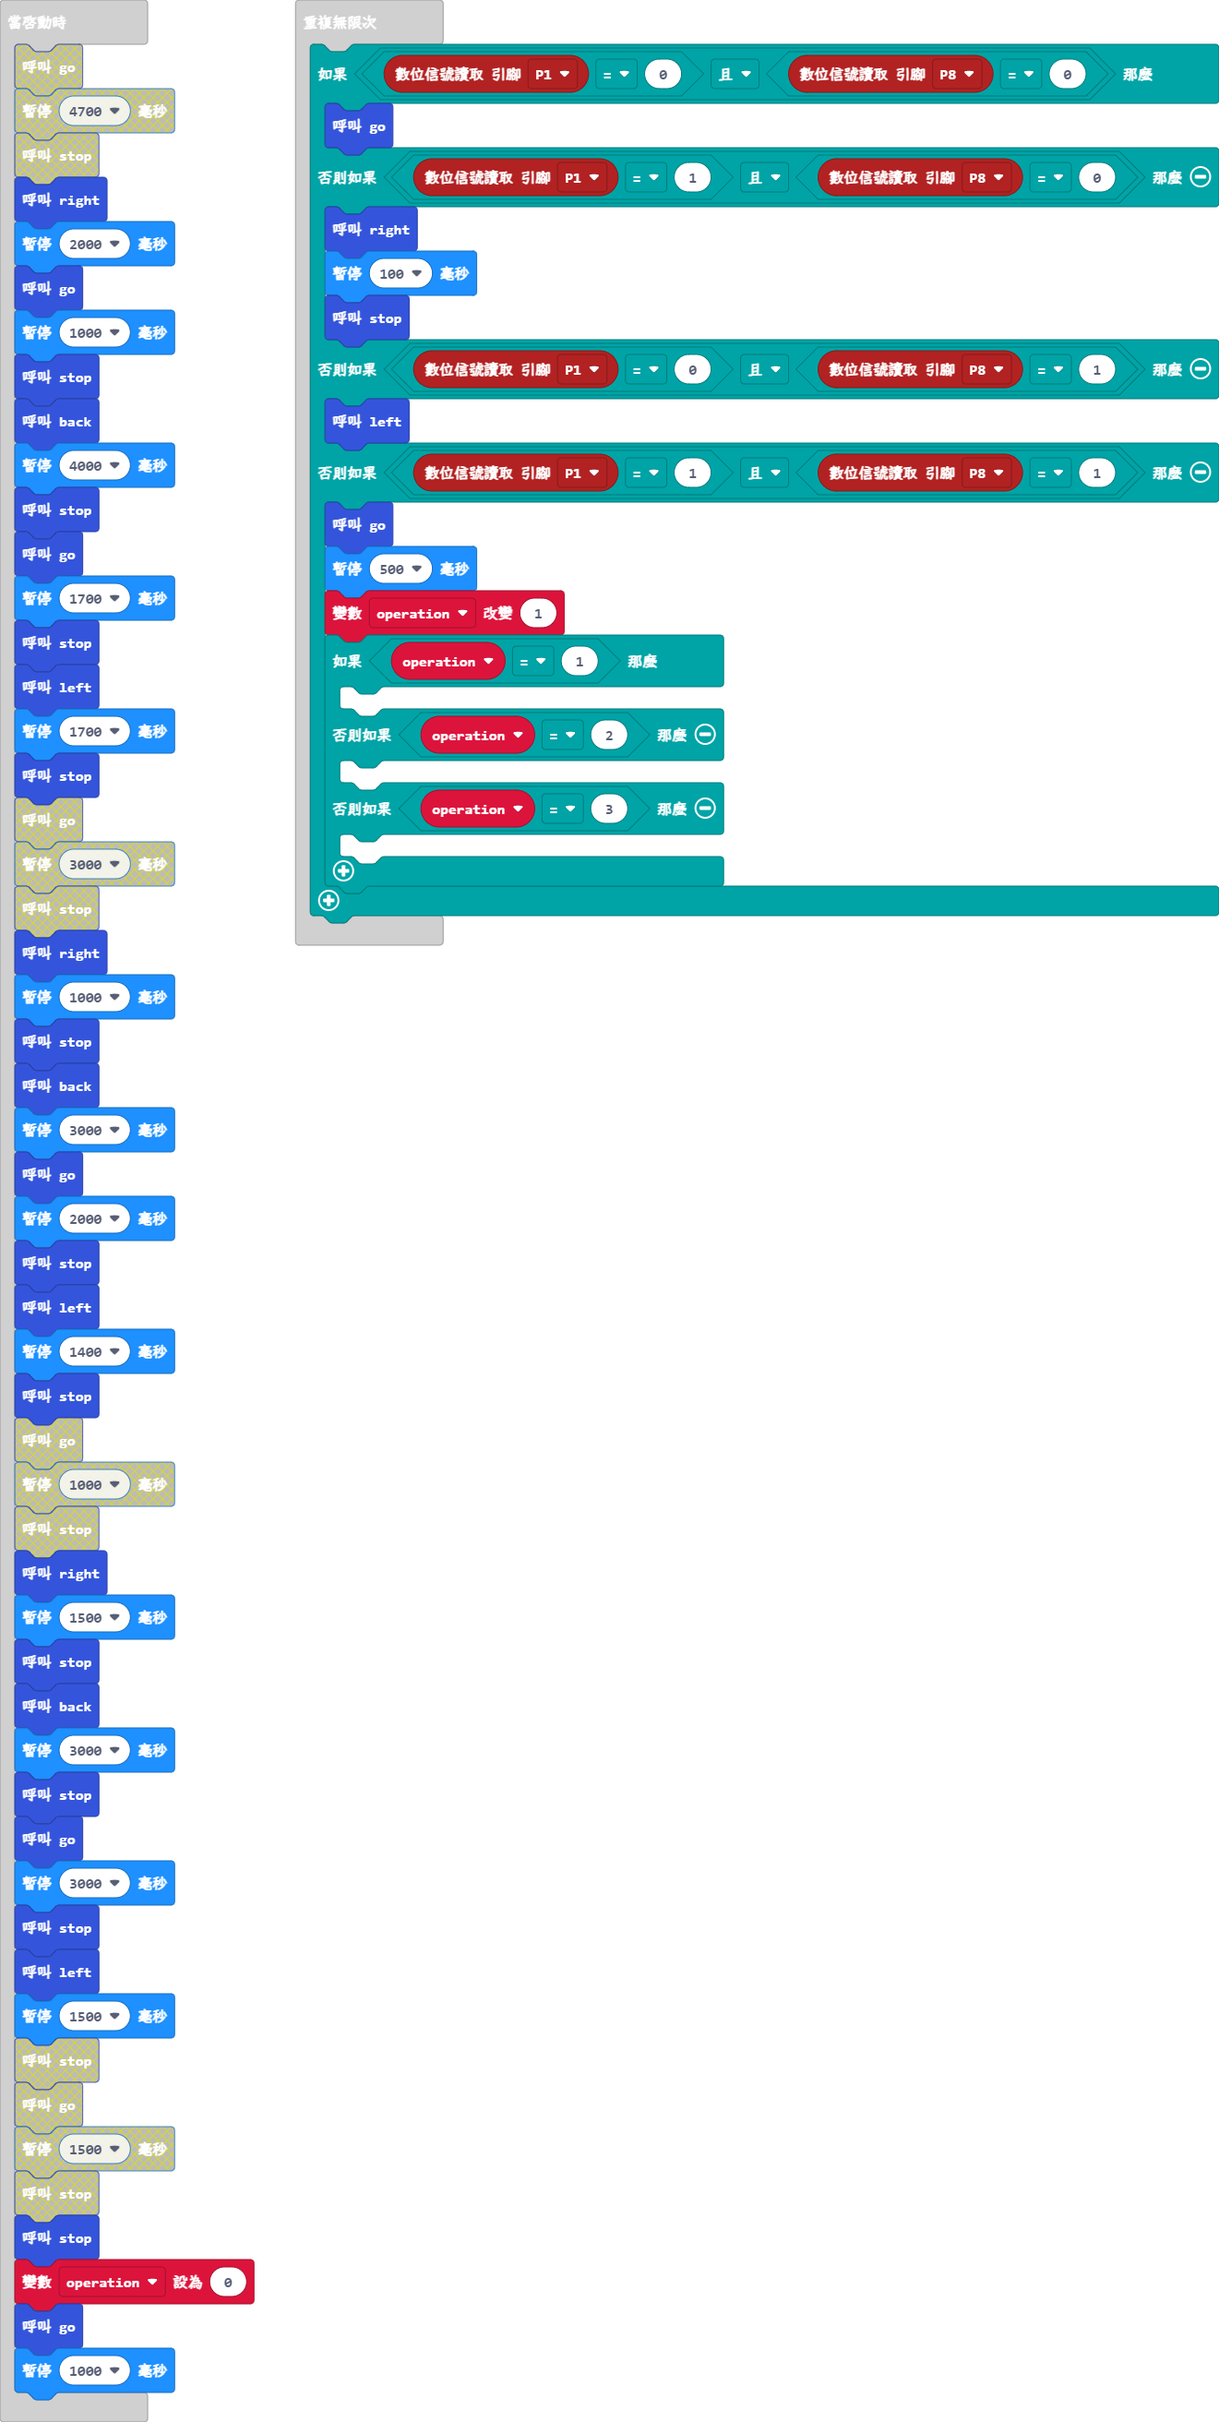
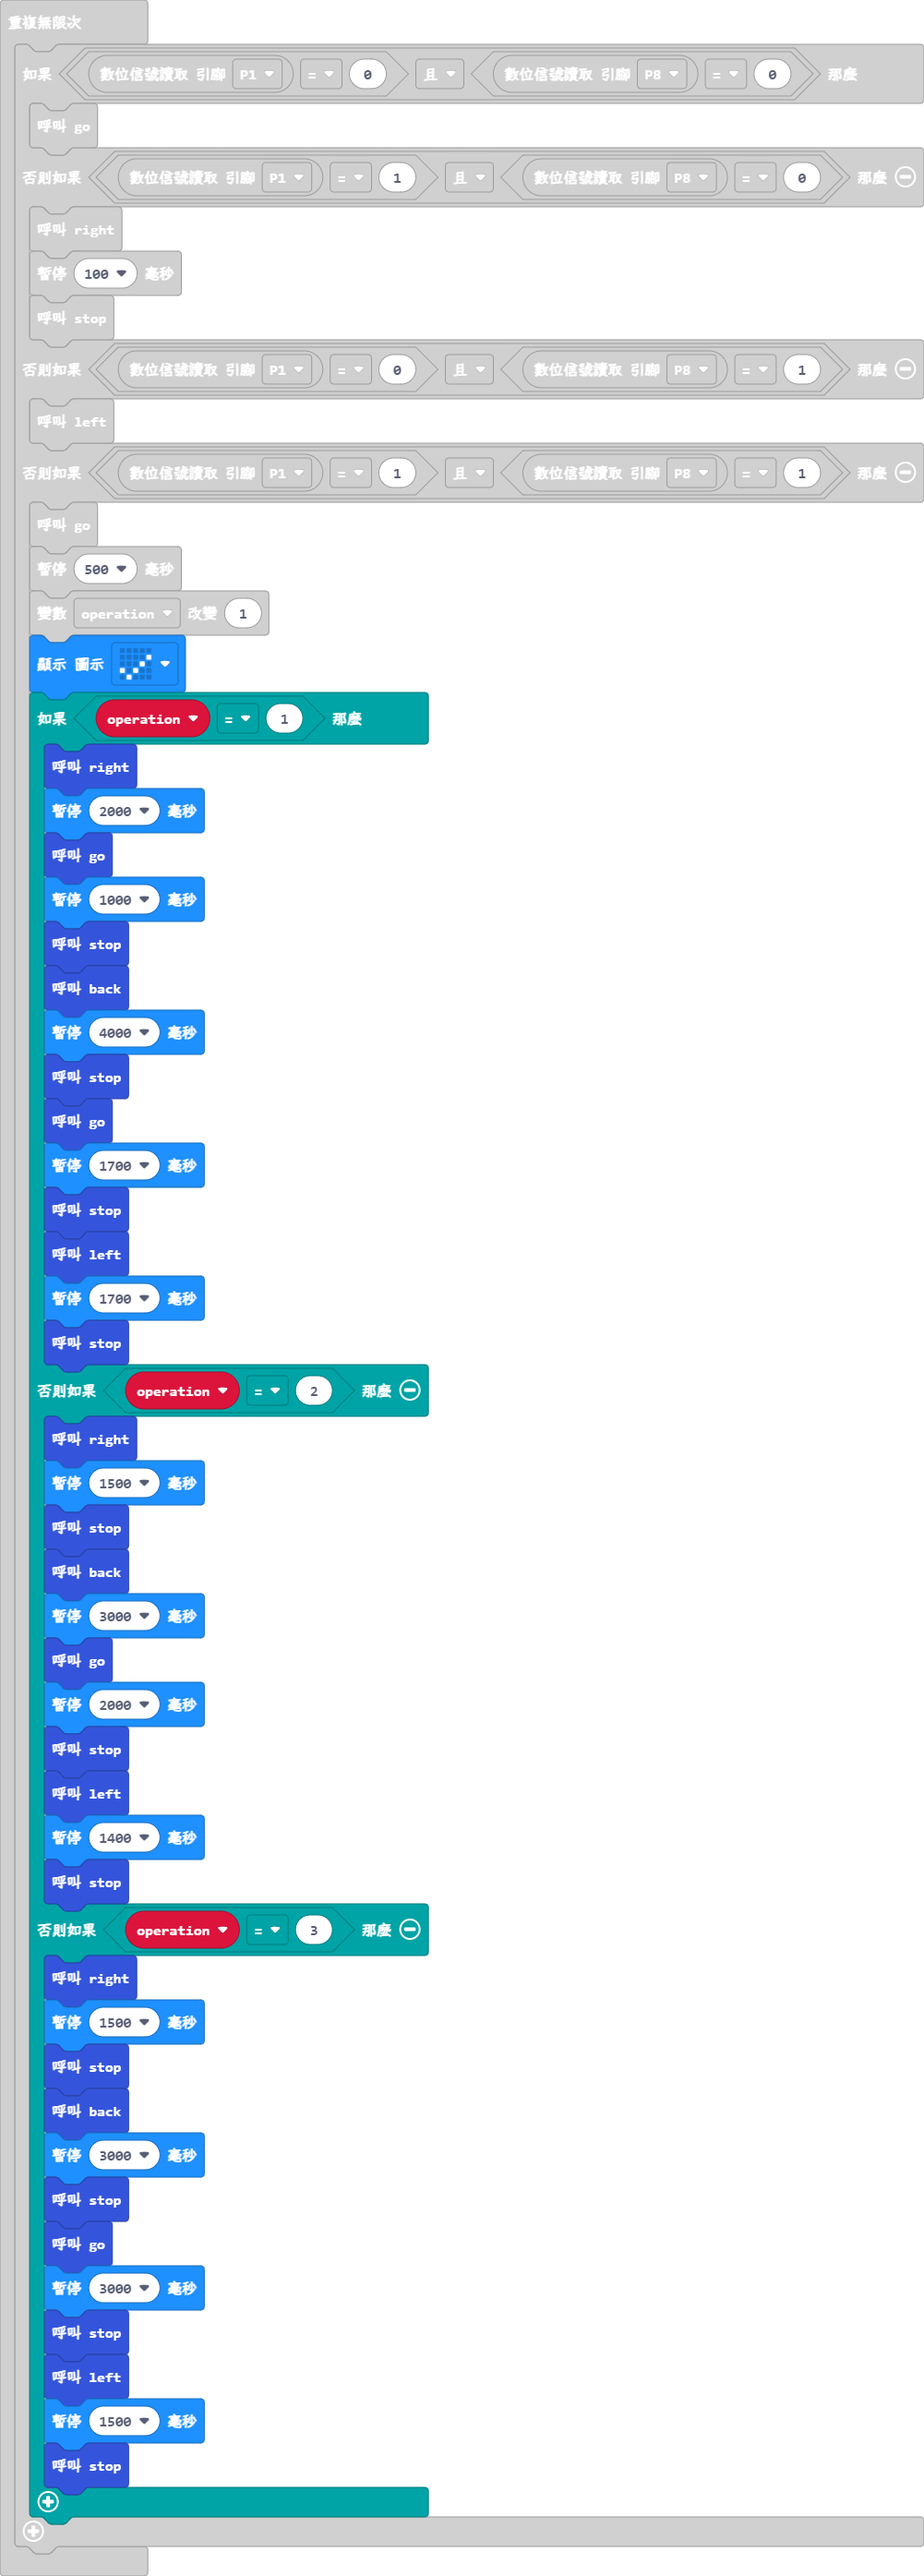
更新 main.blocks, main.ts

diff --git a/main.ts b/main.ts
@@ -95,6 +95,7 @@ basic.forever(function () {
         go()
         basic.pause(500)
         operation += 1
+        basic.showIcon(IconNames.Yes)
         if (operation == 1) {
             right()
             basic.pause(2000)
@@ -112,7 +113,7 @@ basic.forever(function () {
             stop()
         } else if (operation == 2) {
             right()
-            basic.pause(1000)
+            basic.pause(1500)
             stop()
             back()
             basic.pause(3000)
